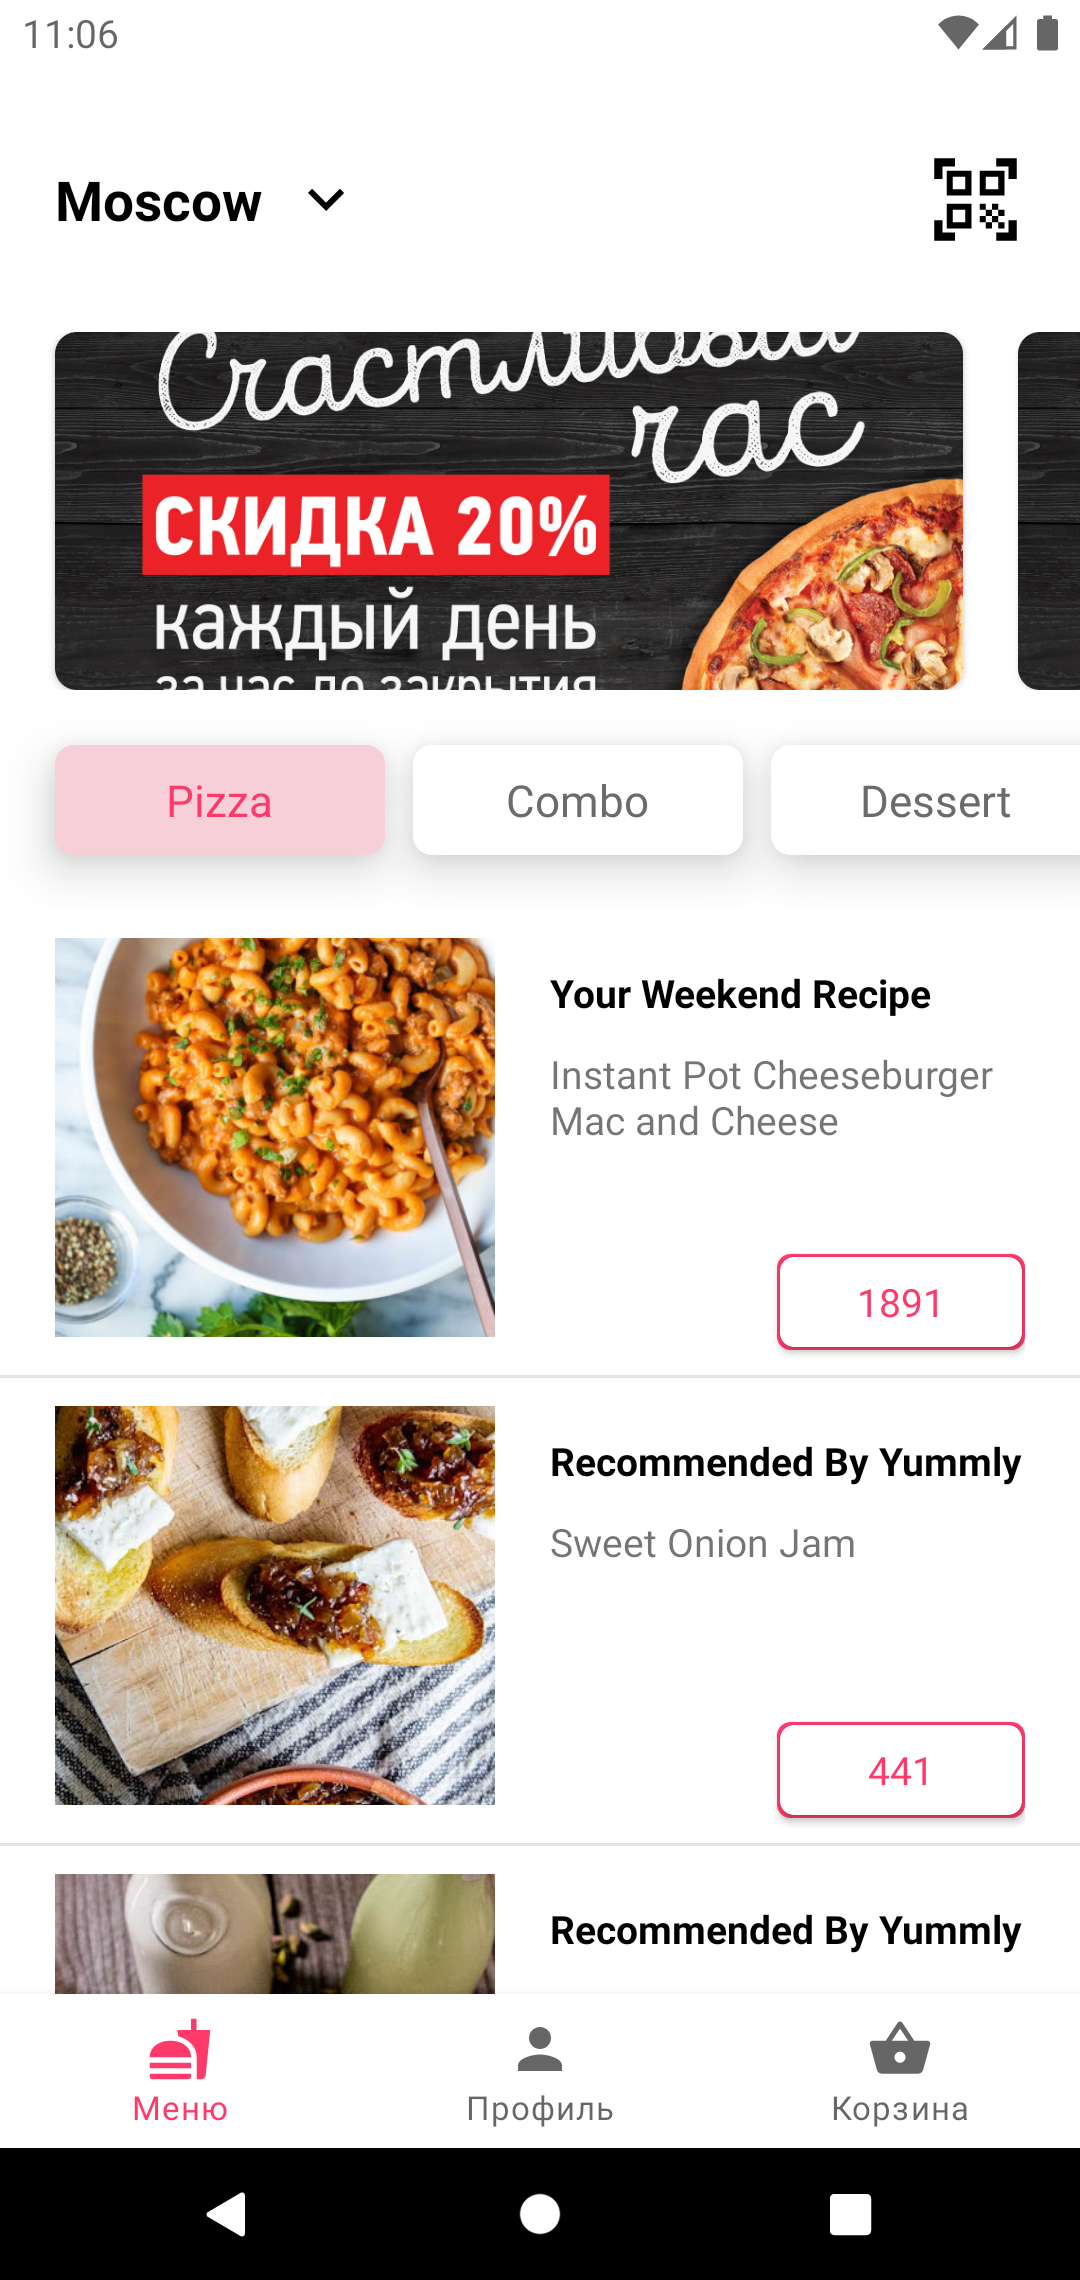
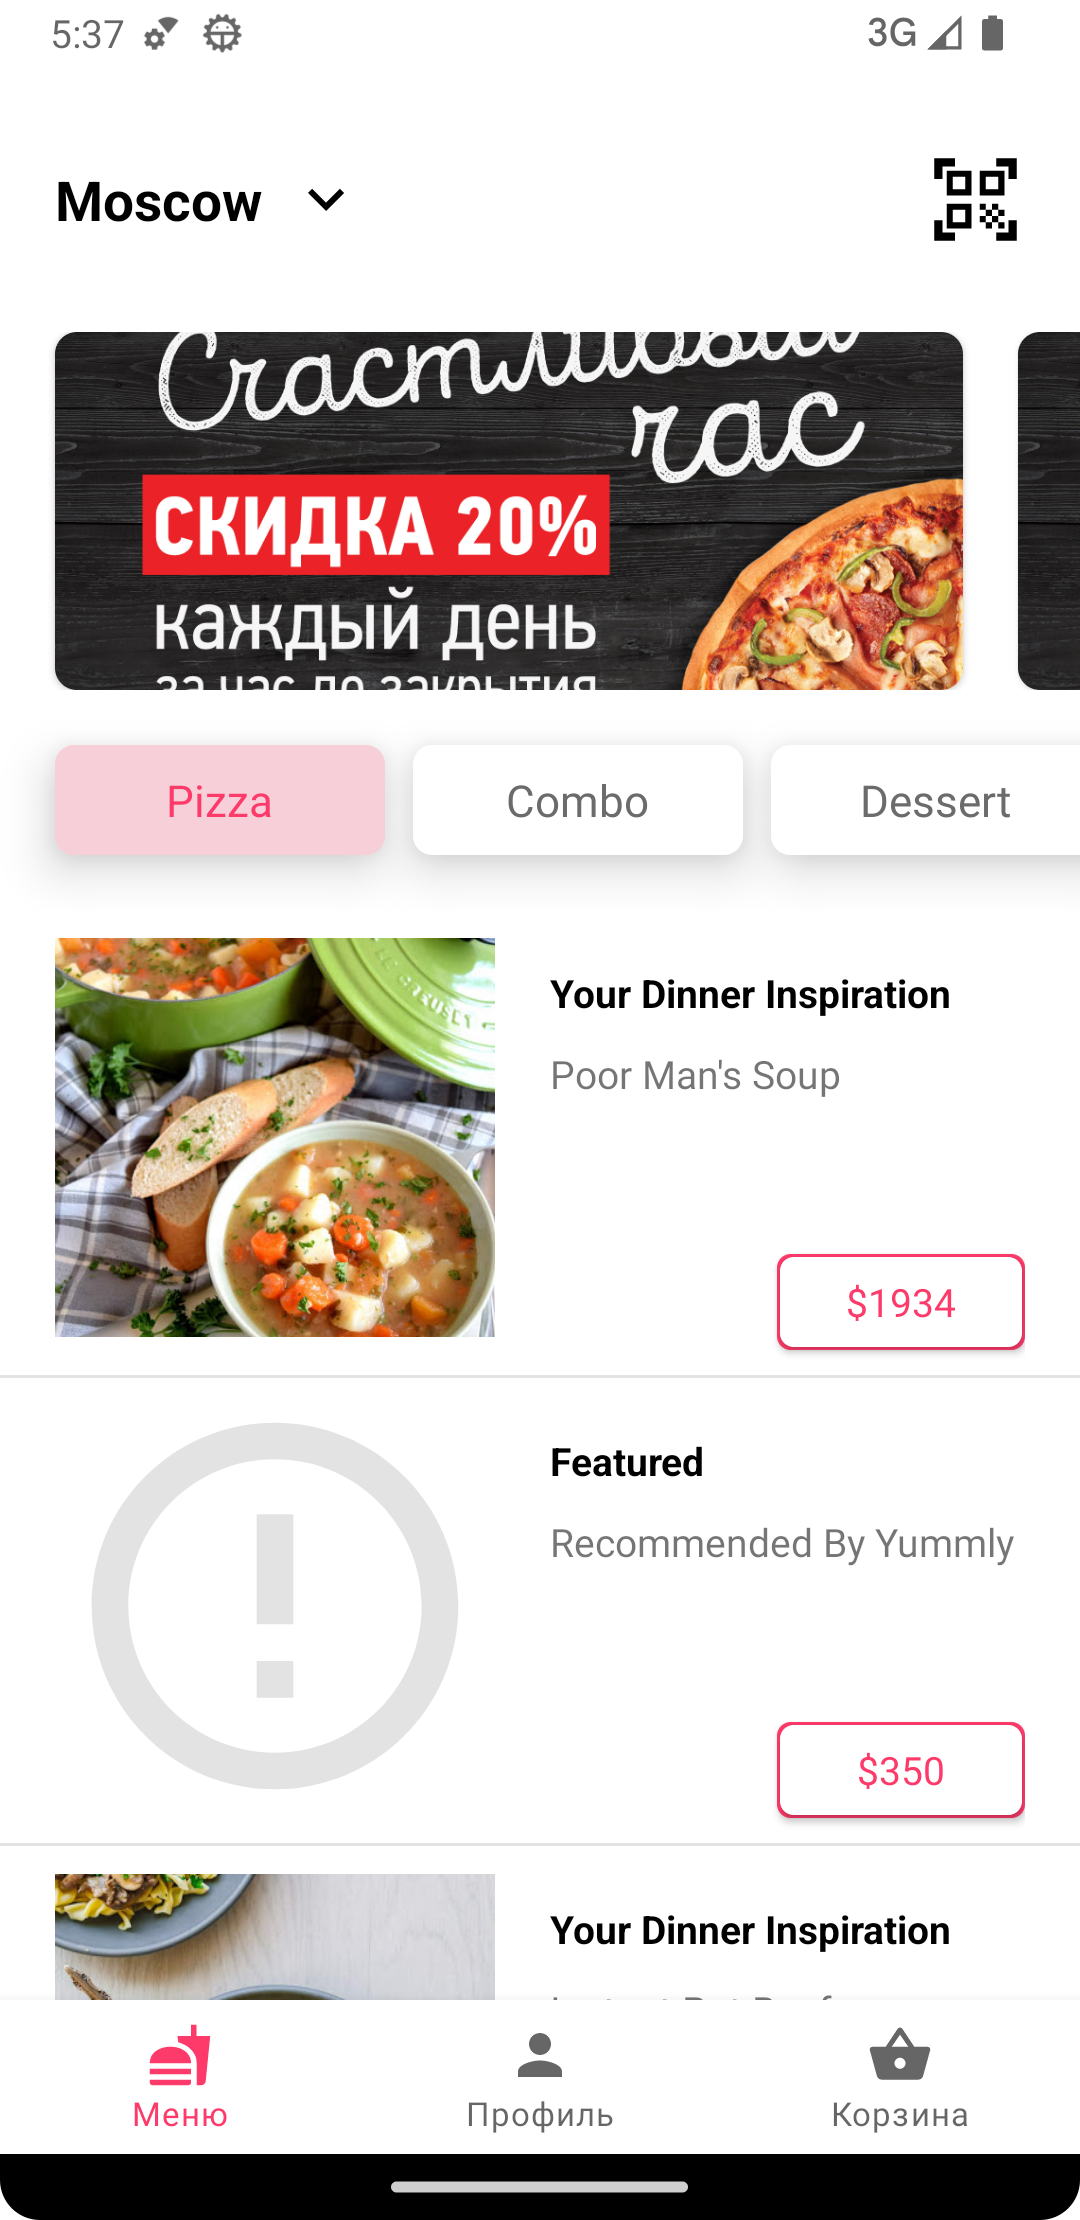
the appBar is now working correctly

diff --git a/app/src/main/java/com/example/hammertestapp/feature_menu_screen/ui/adapters/MenuItemsAdapter.kt b/app/src/main/java/com/example/hammertestapp/feature_menu_screen/ui/adapters/MenuItemsAdapter.kt
@@ -63,7 +63,7 @@ internal class MenuItemsAdapter @Inject constructor(
             binding.apply {
                 title.text = item.title
                 description.text = item.description
-                price.text = item.price.toString()
+                price.text = "$" + item.price.toString()
             }
         }
     }
